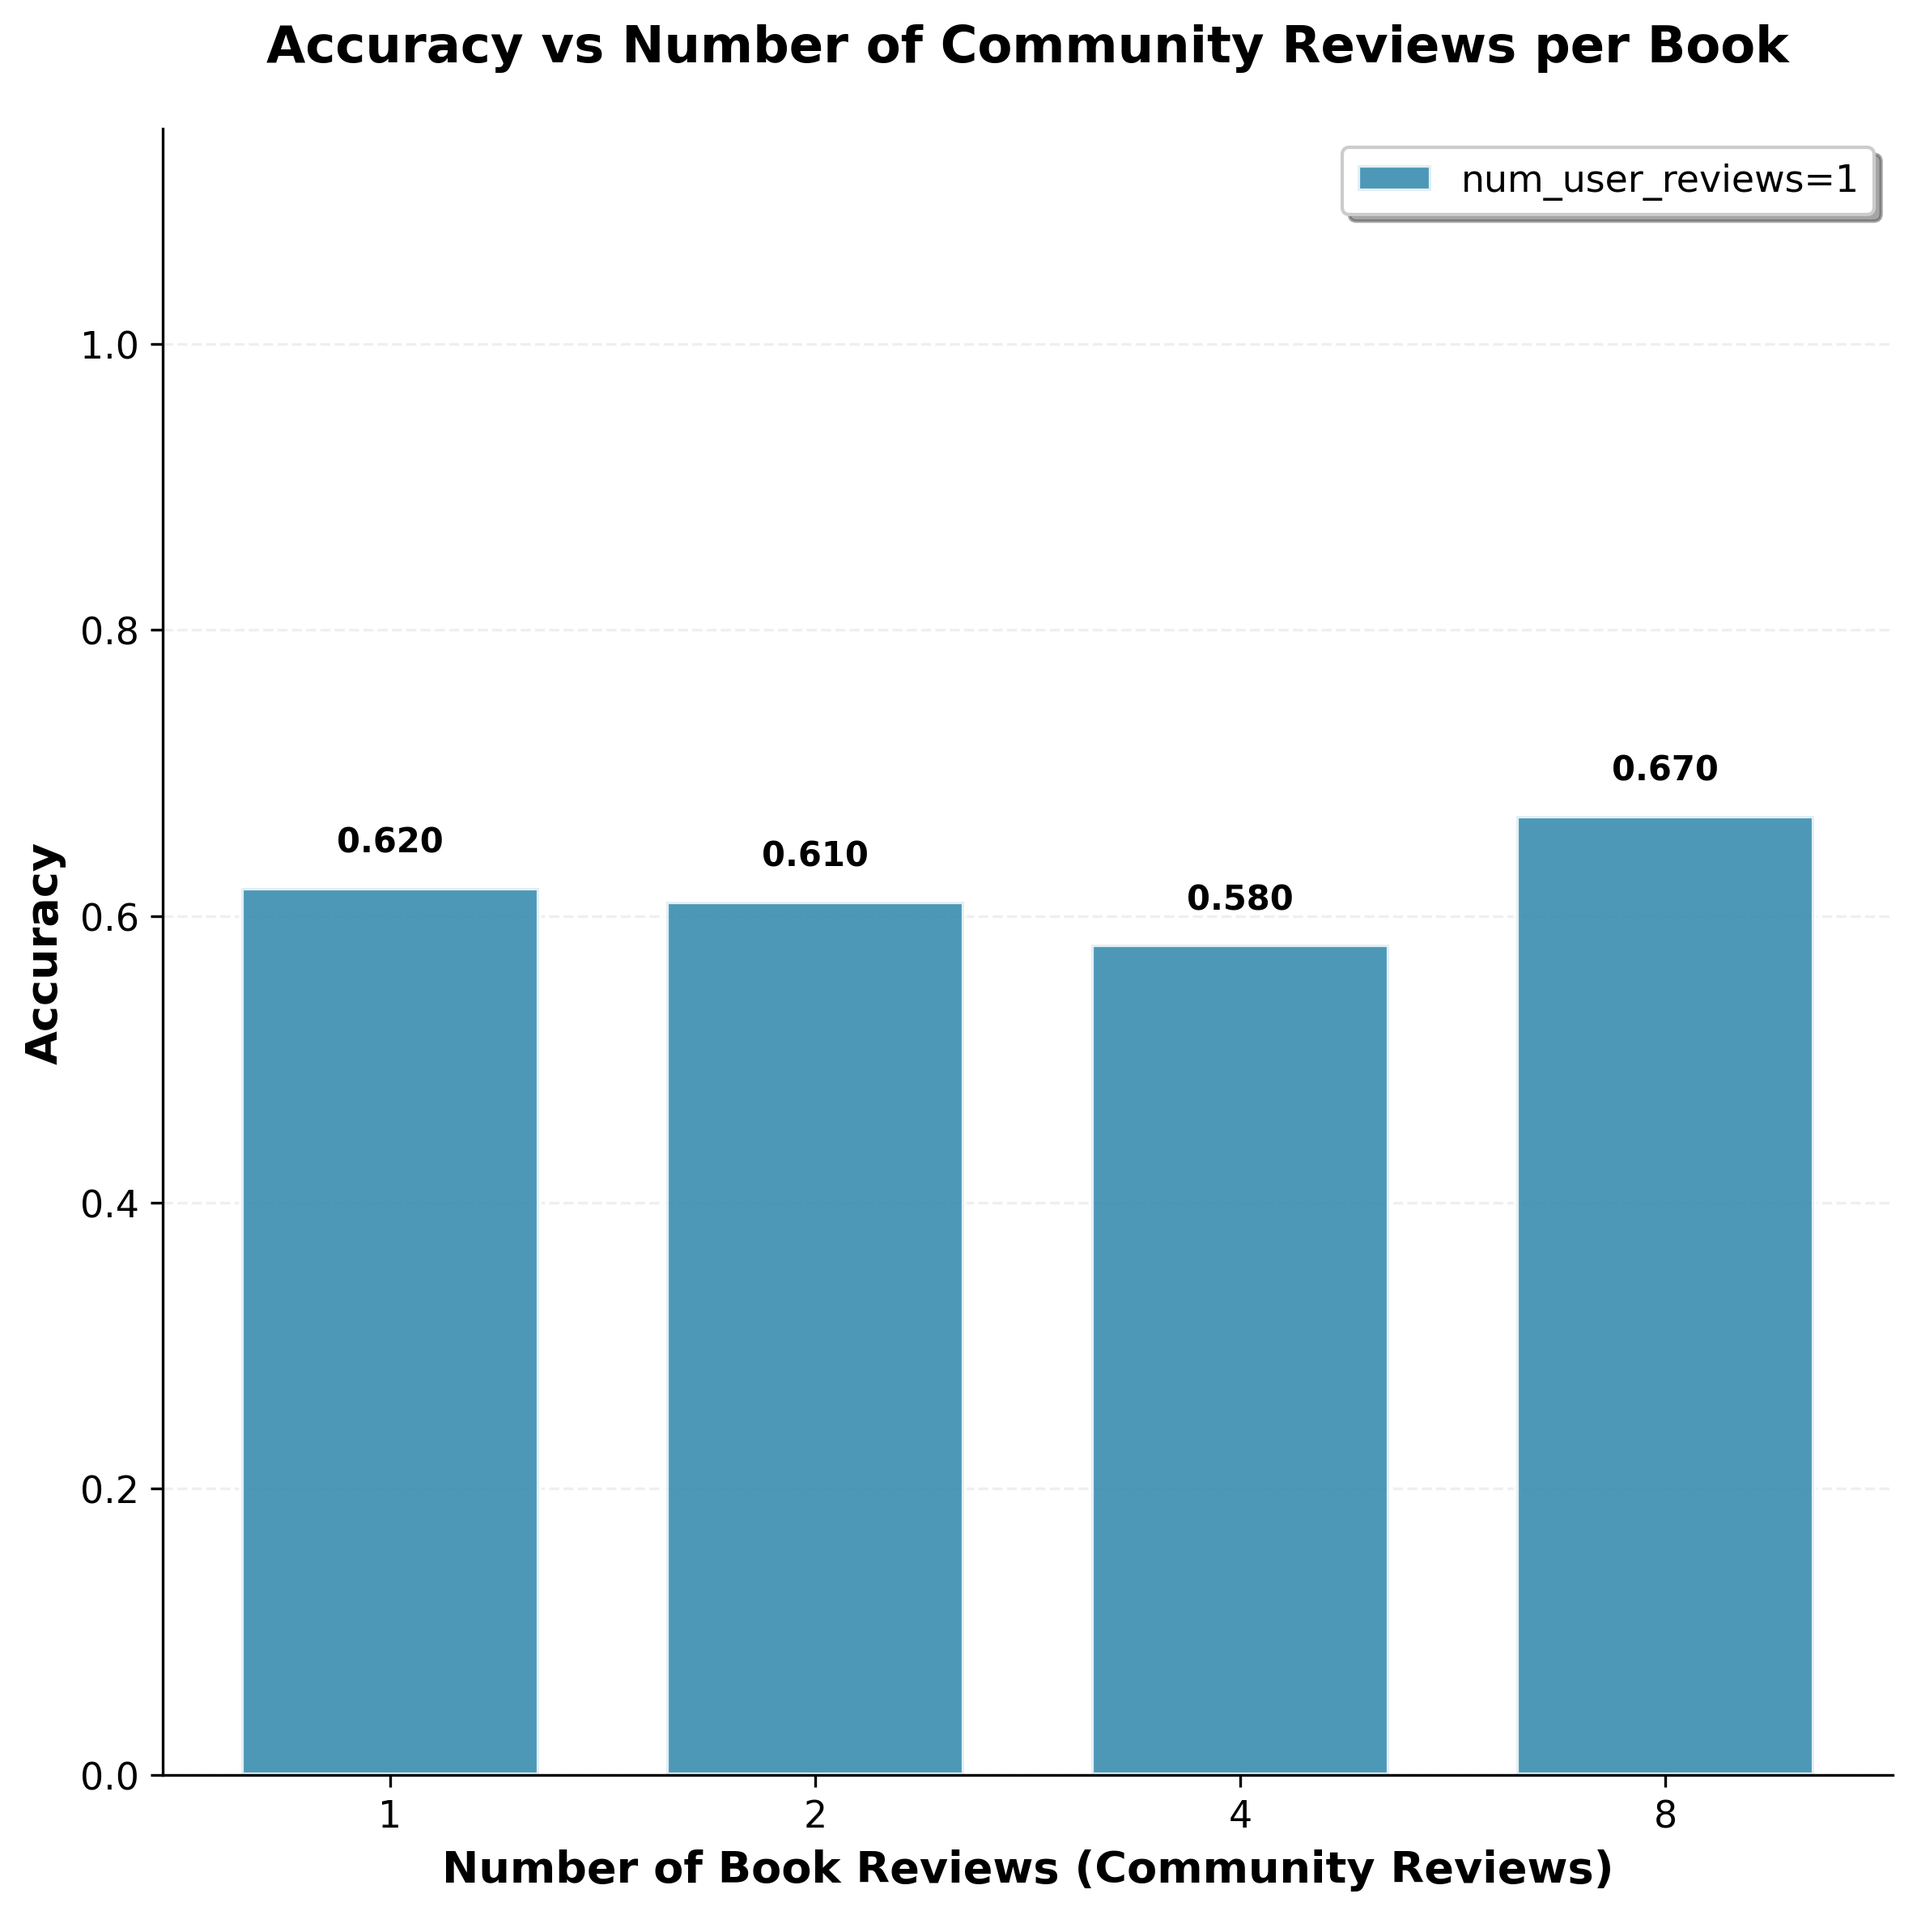
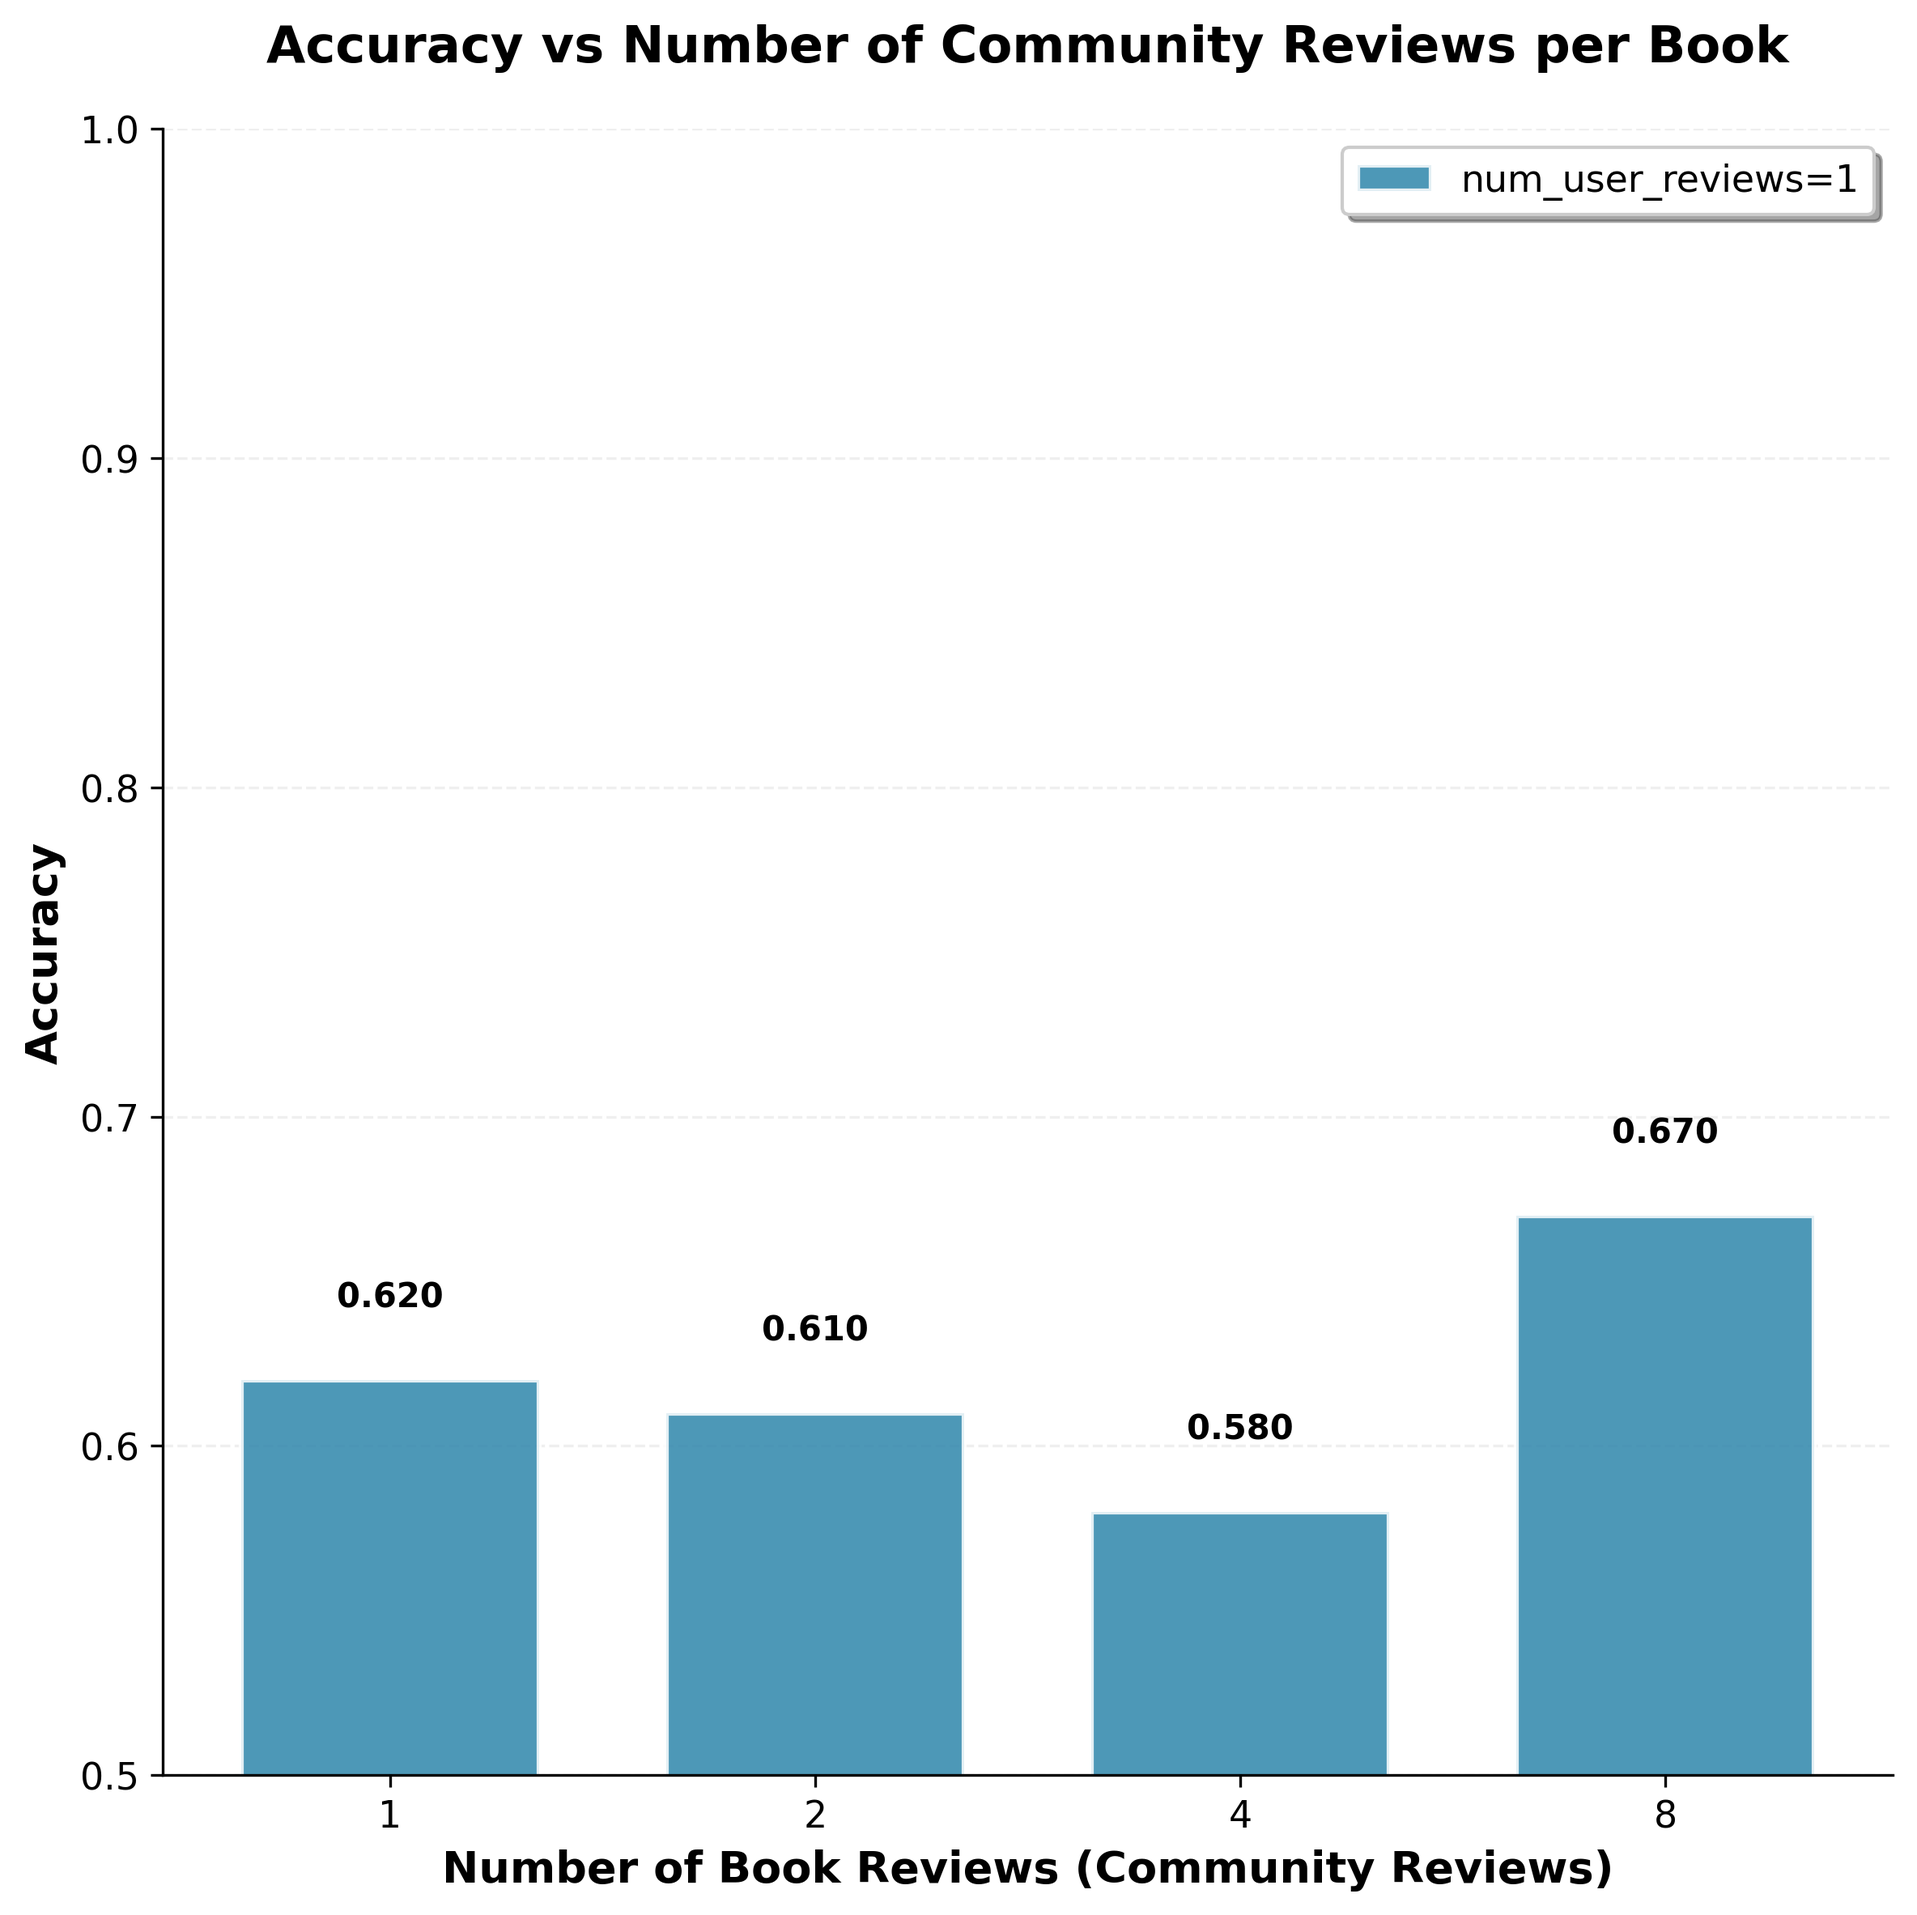
added things

diff --git a/util/plot_results.py b/util/plot_results.py
@@ -201,7 +201,7 @@ def plot_accuracy_vs_book_reviews(results, output_dir, num_book_reviews_list=Non
     # Aesthetic improvements
     ax.legend(frameon=True, shadow=True, fancybox=True, fontsize=11)
     ax.grid(True, alpha=0.2, axis='y', linestyle='--', linewidth=0.8)
-    ax.set_ylim(0, 1.15)
+    ax.set_ylim(0.5, 1.0)
     ax.spines['top'].set_visible(False)
     ax.spines['right'].set_visible(False)
     ax.set_axisbelow(True)
@@ -311,7 +311,7 @@ def plot_accuracy_vs_user_reviews(results, output_dir, num_book_reviews_list=Non
     # Aesthetic improvements
     ax.legend(frameon=True, shadow=True, fancybox=True, fontsize=11)
     ax.grid(True, alpha=0.2, axis='y', linestyle='--', linewidth=0.8)
-    ax.set_ylim(0, 1.15)
+    ax.set_ylim(0.5, 1.0)
     ax.spines['top'].set_visible(False)
     ax.spines['right'].set_visible(False)
     ax.set_axisbelow(True)
@@ -333,8 +333,8 @@ def plot_accuracy_vs_llm_model(results, output_dir, num_book_reviews=None, num_u
         num_book_reviews: Specific num_book_reviews value to compare (required)
         num_user_reviews: Specific num_user_reviews value to compare (required)
     """
-    # Filter results that have model_size information
-    filtered_results = [r for r in results if r["model_size"] is not None]
+    # Filter results that have model_size information and exclude 0.5B model
+    filtered_results = [r for r in results if r["model_size"] is not None and r["model_size"] != "0.5B"]
 
     if not filtered_results:
         print("No results with model information found. Skipping accuracy vs LLM model plot.")
@@ -397,13 +397,66 @@ def plot_accuracy_vs_llm_model(results, output_dir, num_book_reviews=None, num_u
 
     # Aesthetic improvements
     ax.grid(True, alpha=0.2, axis='y', linestyle='--', linewidth=0.8)
-    ax.set_ylim(0, 1.15)
+    ax.set_ylim(0.5, 1.0)
     ax.spines['top'].set_visible(False)
     ax.spines['right'].set_visible(False)
     ax.set_axisbelow(True)
 
     plt.tight_layout()
     output_path = os.path.join(output_dir, "accuracy_vs_llm_model.png")
+    plt.savefig(output_path, dpi=300, bbox_inches='tight', facecolor='white')
+    print(f"Saved plot: {output_path}")
+    plt.close()
+
+
+def plot_accuracy_vs_algorithm(output_dir):
+    """Plot accuracy comparison across different algorithms with hardcoded values.
+
+    Args:
+        output_dir: Directory to save the plot
+    """
+    # Hardcoded algorithm names and their accuracies
+    algorithms = ['random', 'book-rating', 'collaborative-filtering', 'llm']
+    accuracies = [0.50, 0.64, 0.61, 0.69]  # TODO: Replace with actual values
+
+    # Square-shaped figure with better aesthetics
+    fig, ax = plt.subplots(figsize=(8, 8))
+
+    # Define aesthetic color palette
+    colors = ['#2E86AB', '#A23B72', '#F18F01', '#C73E1D']
+
+    # Create bars
+    x_positions = np.arange(len(algorithms))
+    bars = ax.bar(x_positions, accuracies,
+                 color=colors,
+                 alpha=0.85,
+                 edgecolor='white',
+                 linewidth=1.5)
+
+    # Add value labels on top of bars
+    for bar, acc in zip(bars, accuracies):
+        height = bar.get_height()
+        ax.text(bar.get_x() + bar.get_width()/2., height + 0.02,
+               f'{acc:.3f}',
+               ha='center', va='bottom', fontsize=10, fontweight='bold')
+
+    ax.set_xlabel("Algorithm", fontsize=13, fontweight='bold')
+    ax.set_ylabel("Accuracy", fontsize=13, fontweight='bold')
+    ax.set_title("Accuracy vs Algorithm", fontsize=15, fontweight='bold', pad=20)
+
+    ax.set_xticks(x_positions)
+    ax.set_xticklabels(algorithms, fontsize=11)
+    ax.tick_params(axis='y', labelsize=11)
+
+    # Aesthetic improvements
+    ax.grid(True, alpha=0.2, axis='y', linestyle='--', linewidth=0.8)
+    ax.set_ylim(0.5, 1.0)
+    ax.spines['top'].set_visible(False)
+    ax.spines['right'].set_visible(False)
+    ax.set_axisbelow(True)
+
+    plt.tight_layout()
+    output_path = os.path.join(output_dir, "accuracy_vs_algorithm.png")
     plt.savefig(output_path, dpi=300, bbox_inches='tight', facecolor='white')
     print(f"Saved plot: {output_path}")
     plt.close()
@@ -481,6 +534,7 @@ def main():
     plot_accuracy_vs_llm_model(results, args.output_dir,
                               num_book_reviews=8,
                               num_user_reviews=1)
+    plot_accuracy_vs_algorithm(args.output_dir)
 
     print(f"\nAll plots saved to {args.output_dir}")
 

diff --git a/util/predict_by_rating.py b/util/predict_by_rating.py
@@ -1,0 +1,113 @@
+"""
+Predict user preferences based on average book ratings.
+
+Reads dataset.jsonl and predicts that users prefer the book with higher average rating.
+Calculates the accuracy of this simple baseline method.
+"""
+
+import argparse
+import json
+from pathlib import Path
+
+
+def load_dataset(dataset_path):
+    """Load dataset from jsonl file.
+
+    Args:
+        dataset_path: Path to dataset.jsonl file
+
+    Returns:
+        list: List of data entries
+    """
+    data = []
+    with open(dataset_path, 'r') as f:
+        for line in f:
+            data.append(json.loads(line))
+    return data
+
+
+def predict_by_rating(entry):
+    """Predict preference based on average book ratings.
+
+    Args:
+        entry: Dataset entry with book_a and book_b information
+
+    Returns:
+        str: Predicted preference ('A' or 'B')
+    """
+    rating_a = entry['book_a']['average_rating']
+    rating_b = entry['book_b']['average_rating']
+
+    # Predict the book with higher average rating
+    if rating_a > rating_b:
+        return 'A'
+    elif rating_b > rating_a:
+        return 'B'
+    else:
+        # If ratings are equal, default to 'A'
+        return 'A'
+
+
+def calculate_accuracy(dataset):
+    """Calculate accuracy of rating-based prediction.
+
+    Args:
+        dataset: List of dataset entries
+
+    Returns:
+        dict: Metrics including accuracy, correct count, and total count
+    """
+    correct = 0
+    total = len(dataset)
+
+    for entry in dataset:
+        prediction = predict_by_rating(entry)
+        actual = entry['preferred']
+
+        if prediction == actual:
+            correct += 1
+
+    accuracy = correct / total if total > 0 else 0
+
+    return {
+        'accuracy': accuracy,
+        'correct': correct,
+        'total': total
+    }
+
+
+def main():
+    parser = argparse.ArgumentParser(
+        description="Predict preferences based on average book ratings"
+    )
+    parser.add_argument(
+        "--dataset",
+        default="/home/mananaga/goodreads/data/book_preference_dataset.jsonl",
+        help="Path to dataset.jsonl file (default: /home/mananaga/goodreads/data/book_preference_dataset.jsonl)"
+    )
+
+    args = parser.parse_args()
+
+    # Load dataset
+    print(f"Loading dataset from {args.dataset}...")
+    dataset = load_dataset(args.dataset)
+    print(f"Loaded {len(dataset)} entries")
+
+    # Calculate accuracy
+    print("\nCalculating accuracy of rating-based prediction...")
+    metrics = calculate_accuracy(dataset)
+
+    # Print results
+    print("\n" + "="*50)
+    print("RATING-BASED PREDICTION RESULTS")
+    print("="*50)
+    print(f"Total entries:    {metrics['total']}")
+    print(f"Correct:          {metrics['correct']}")
+    print(f"Accuracy:         {metrics['accuracy']:.4f} ({metrics['accuracy']*100:.2f}%)")
+    print("="*50)
+
+    return metrics
+
+
+if __name__ == "__main__":
+    main()
